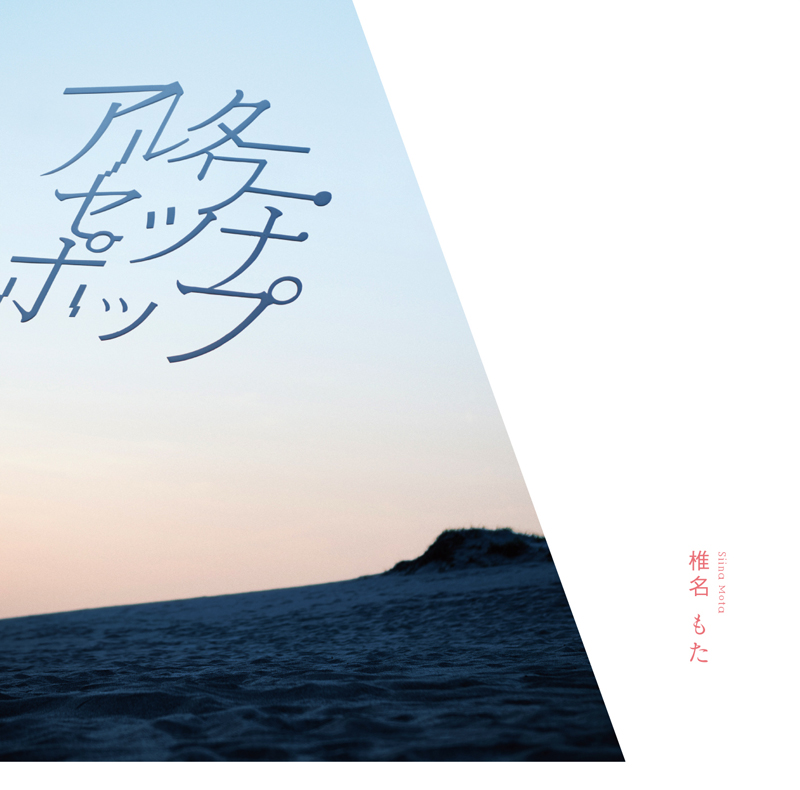
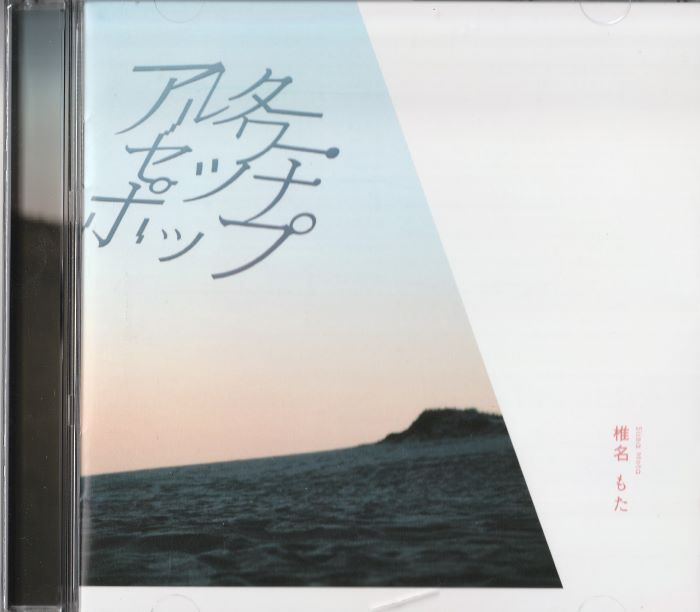
added scans to CDs

diff --git a/doqmeat/music/cds.html b/doqmeat/music/cds.html
@@ -139,7 +139,6 @@
 				<div class="hov">
 					<div class="caption">
 						<h3>アルターワー・セツナポップ / alterour setsuna pop - siinamota</h3>
-						<p><span class="placeholder"></span></p>
 						<p>got this for meee as a treat for my birthday!</p>
 						<p><small>will scan later</small></p>
 						<a class="i" href="!g/cds/setsunapop%20(3).jpg" target="_blank"><img src="!g/cds/setsunapop%20(3).jpg"></a>
@@ -235,17 +234,16 @@
 		</div>
 		<!-- 			column 3 -->
 		<div class="column">
-			<div class="cd"><img src="!g/fav-albums/kokeganenouta.jpg">
+			<div class="cd"><img src="!g/cds/kokegane.jpg">
 				<div class="hov">
 					<div class="caption">
 						<h3>コケガネのうた / kokegane no uta - siinamota</h3>
 						<p><span class="fav"></span></p>
-						<p><span class="placeholder"></span></p>
-						<p><small>will scan later</small></p>
 						<p>the 2nd birthday gift i got for myself :3 the first was the alterour setsuna pop CD!</p>
 						<p>i've seen ppl reselling this album for more than $100 usd so i am SO happy i was able to get it through cdjapan for less than that!! i love this EP from siinamota so much.</p>
 						<a class="i" href="!g/cds/kokegane-back.jpg" target="_blank"><img src="!g/cds/kokegane-back.jpg"></a>
 						<p>also this album has such an amazing art featured in it's jewel case and booklet... since then i've been following the artist, <a href="https://twitter.com/tocomomomo" target="_blank" class="outlink">momoc</a>, on social media.</p>
+						<a class="i" href="!g/cds/kokegane-1.jpg" target="_blank"><img src="!g/cds/kokegane-1.jpg" alt="album scan"></a>
 
 						<p><span class="date"> 29.may.24</span></p>
 					</div>
@@ -415,7 +413,7 @@
 	<div id="home"><a class="i" title="go back to music page" href="/music"><img src="/!g/deco/cd.gif"></a></div>
 
 	<footer>
-		imgs on this page have been scanned by me unless stated otherwise! <img src="/!g/pix/musicnote1.gif"> <b>last updated on 13.jun.24</b>
+		imgs on this page have been scanned by me unless stated otherwise! <img src="/!g/pix/musicnote1.gif"> <b>last updated on 02.jul.24</b>
 		<br>
 		<b>credit:</b> background is from yukika's soul lady photobook! / <a href="/notebook/links/fonts.html">fonts</a> used: natsuzemi, gaegu, spirit
 		<br>
